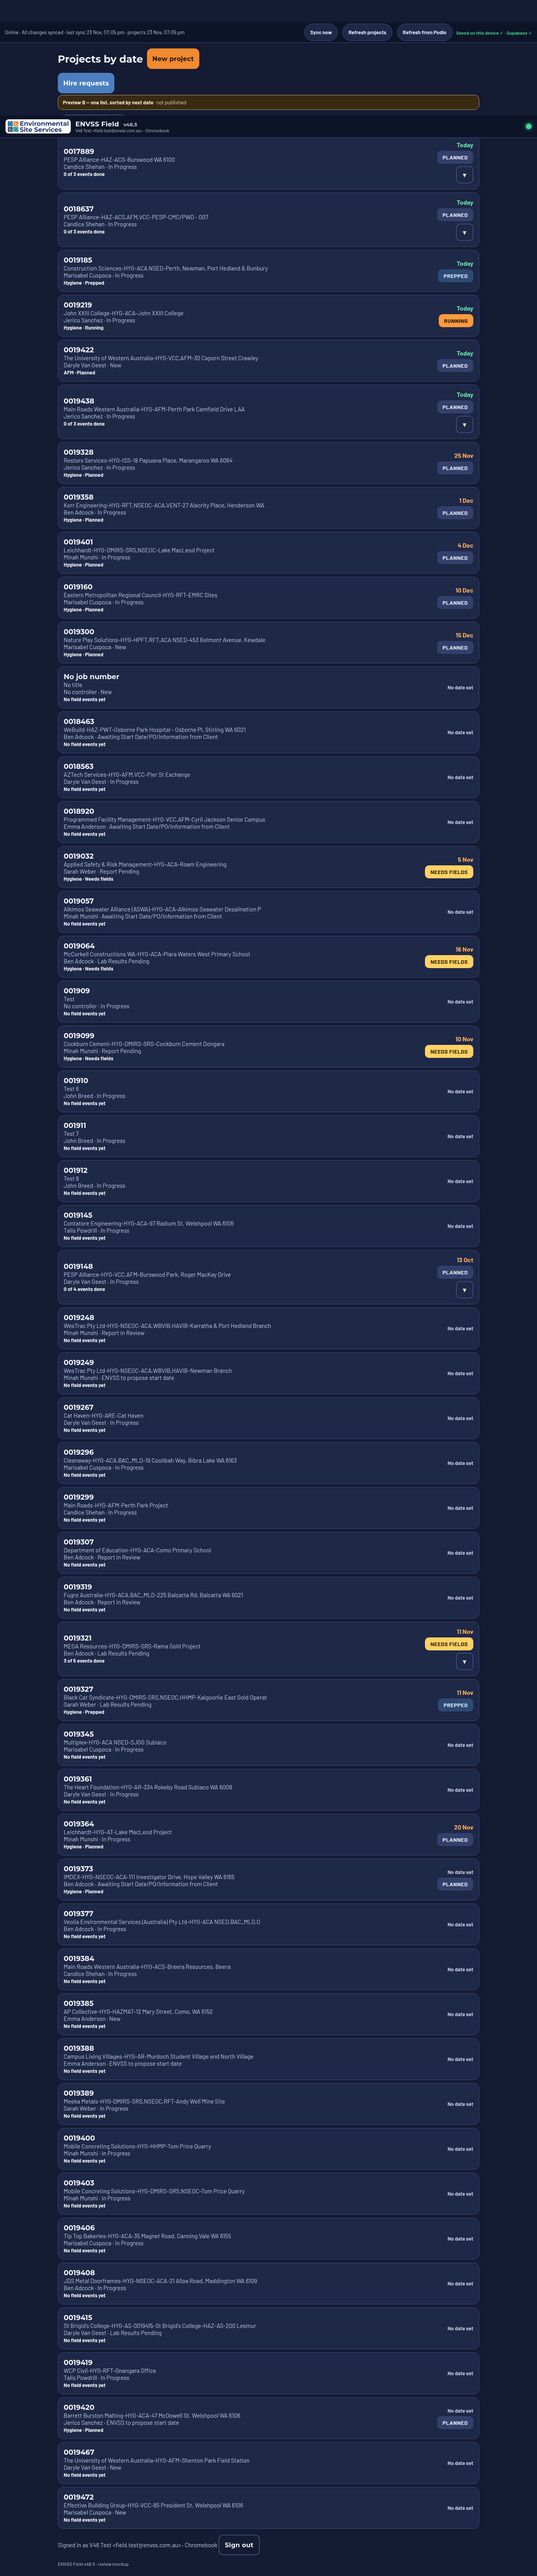
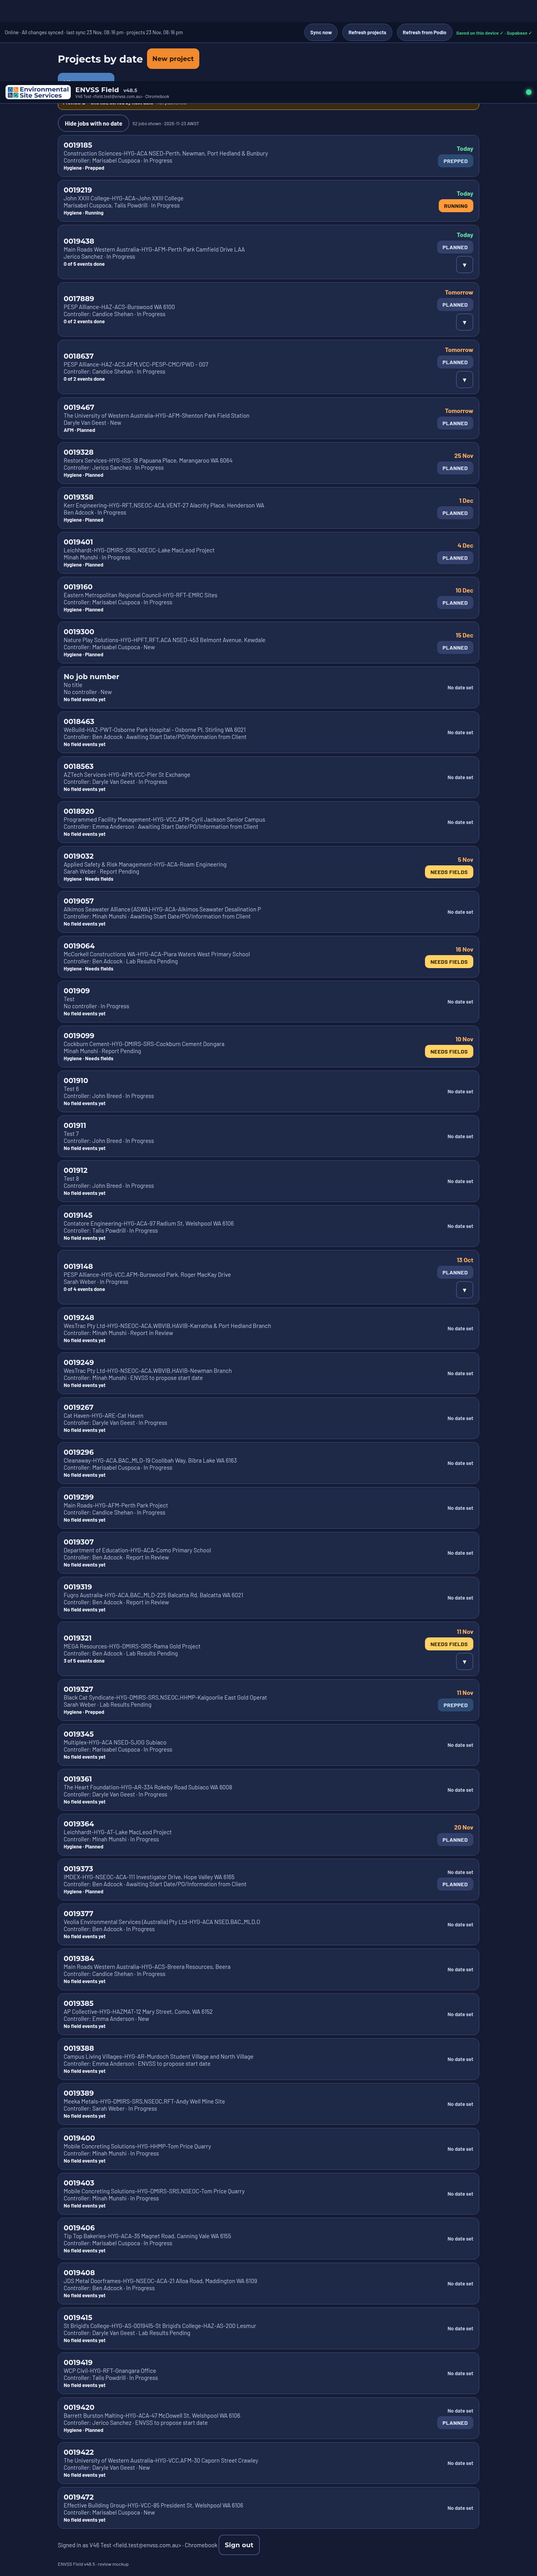
Draft: Layout A project list with Site Works Attended by on each card.
Grouped by date, one card per job, no-date and test jobs collapsed. The next event's attendee comes from Podio report-submitted-by; if it is empty the project controller is shown and labelled. Not published. AFM view SQL is drafted only, not applied.

Changed region(s): [[0.0, 0.0312, 0.8917, 0.1871]]

diff --git a/work/projlist/review.js b/work/projlist/review.js
@@ -27,6 +27,7 @@
     ".plr-title{overflow-wrap:anywhere}",
     ".plr-status{font-size:12px;opacity:.8;text-align:right;max-width:140px}",
     ".plr-empty{opacity:.75;font-size:13px;margin:0 0 8px}",
+    ".plr-fallback{font-style:italic;opacity:.9}",
     ".plr-chev{min-width:44px;min-height:44px;border-radius:10px;align-self:flex-end}"
   ].join("");
   document.head.appendChild(st);
@@ -116,6 +117,12 @@
     return p.shortName || String(p.name || "").replace(/^\d{7}[-_ ]*/, "") || p.number;
   }
   function typeLab(t) { return t === "fibre" ? "AFM" : "Hygiene"; }
+  function nameOf(ev, p) {
+    const att = ev && String(ev.attendee || "").trim();
+    if (att) return { text: att, fallback: false };
+    if (p && String(p.controller || "").trim()) return { text: "Controller: " + p.controller.trim(), fallback: true };
+    return { text: "No controller", fallback: true };
+  }
 
   function cardHtml(p, evs, today, expanded) {
     const cur = pickCurrent(evs, today);
@@ -127,12 +134,15 @@
     if (n > 1) sum = done + " of " + n + " events done";
     else if (n === 1 && cur) sum = typeLab(cur.type) + " · " + (cur.stage || "Planned");
     else sum = "No field events yet";
-    const sub = [p.controller || "No controller", p.status || ""].filter(Boolean).join(" · ");
-    const evBlock = (expanded && n) ? '<div class="plr-ev">' + evs.map(e =>
-      '<div class="plr-evrow"><div><div class="brand-type" style="font-weight:700;font-size:14px">' + esc(e.code) + "</div>"
-      + '<div class="muted">' + esc(typeLab(e.type) + " · " + niceDate(e.date, today)) + "</div></div>"
-      + badgeFor(e.stage) + "</div>"
-    ).join("") + "</div>" : "";
+    const who = nameOf(cur, p);
+    const sub = [who.text, p.status || ""].filter(Boolean).join(" · ");
+    const evBlock = (expanded && n) ? '<div class="plr-ev">' + evs.map(e => {
+      const w = nameOf(e, p);
+      return '<div class="plr-evrow"><div><div class="brand-type" style="font-weight:700;font-size:14px">' + esc(e.code) + "</div>"
+        + '<div class="muted">' + esc(typeLab(e.type) + " · " + niceDate(e.date, today)) + "</div>"
+        + '<div class="muted' + (w.fallback ? " plr-fallback" : "") + '">' + esc(w.text) + "</div></div>"
+        + badgeFor(e.stage) + "</div>";
+    }).join("") + "</div>" : "";
     const chev = n > 1 ? '<button type="button" class="btn ghost plr-chev" data-plr-expand="' + esc(p.id) + '" aria-label="Show events">' + (expanded ? "▴" : "▾") + "</button>" : "";
     return '<div class="card open-project plr-card" data-project="' + esc(p.id) + '" style="display:block;width:100%;text-align:left">'
       + '<div class="row"><div class="grow">'
@@ -151,7 +161,7 @@
 
   function listForMode() {
     const fx = window.ENVSS_PROJLIST_FIXTURE || {};
-    const mode = Number(window.ENVSS_PROJLIST_REVIEW || 0);
+    const mode = Number(window.ENVSS_PROJLIST_REVIEW == null ? 1 : window.ENVSS_PROJLIST_REVIEW);
     const today = todayYmd();
     const projects = (fx.mockupProjects || []).slice();
     const hideNone = !!view.plrHideNone;
@@ -211,7 +221,8 @@
 
   const _dash = dashHtml;
   dashHtml = function () {
-    if (!Number(window.ENVSS_PROJLIST_REVIEW || 0)) return _dash.apply(this, arguments);
+    const mode = Number(window.ENVSS_PROJLIST_REVIEW == null ? 1 : window.ENVSS_PROJLIST_REVIEW);
+    if (!mode) return _dash.apply(this, arguments);
     try { return reviewHtml(); } catch (e) { console.warn("projlist review", e); return _dash.apply(this, arguments); }
   };
 
@@ -239,5 +250,9 @@
         render();
       };
     });
+  };
+
+  window.envssProjlist = {
+    todayYmd, nameOf, groupOf, nextDate, pickCurrent, evsOf, listForMode, GROUPS
   };
 })();

diff --git a/field.html b/field.html
@@ -9257,7 +9257,12 @@ window.HIRE_CATALOG = HIRE_CATALOG;
       const jobNumber = jobNumberFrom(reference, projectTitle, f["job-number"]);
       const turnaroundLabel = textOf(f.selection);
       const lab = relOf(f["which-laboratory-is-processing-samples"]);
-      const attended = relOf(f["report-submitted-by"]);
+      function peopleOf(v) {
+        const arr = Array.isArray(v) ? v : (v == null ? [] : [v]);
+        return arr.map(function (x) { return relOf(x).title; }).filter(Boolean);
+      }
+      const attendedNames = peopleOf(f["report-submitted-by"]);
+      const attended = { title: attendedNames.join(", "), itemId: relOf(f["report-submitted-by"]).itemId };
       const taskRaw = f["task-description"];
       const equipRaw = f["equipment-details"];
       const payload = {
@@ -10183,6 +10188,7 @@ window.HIRE_CATALOG = HIRE_CATALOG;
         task: text(f["task-description"]), tatLabel: text(f.selection), tat: tat(text(f.selection)),
         protocol: proto(text(f["monitoring-type"])), rotameter: rel(f.rotameter).title,
         collectedBy: list(f["samples-collected-by"]).join(", "),
+        attendedBy: list(f["report-submitted-by"]).join(", "),
         siteContact: text(f["site-contact-namephone"]),
         siteAddress: loc && typeof loc === "object" ? clean(loc.address || "") : text(loc),
         poc, totalSamples: num(f.calculation),

diff --git a/work/projlist/README.md b/work/projlist/README.md
@@ -1,27 +1,35 @@
-# Project list review (23 Nov 2026 AWST)
+# Project list Layout A (23 Nov 2026 AWST)
 
-Review and mockups only. Not published. Branch: `feat/project-list-review` at `/workspace/envss-projlist` (from main `ef2874a` / v48.5).
+Draft only. Not published. Branch: `feat/project-list-review` at `/workspace/envss-projlist` (from main `ef2874a` / v48.5).
+
+Layout A: grouped by when work is happening, one card per job number, no-date and test jobs collapsed.
+Name on the card is Podio **Site Works Attended by** (`report-submitted-by`) for the next/current event; if that is empty, **Controller: {name}**. Expanded multi-event cards show each event's attendee.
+
+## Tests
+
+`ROOT=/workspace/envss-projlist node work/projlist/test.mjs`
+
+32 passed (Pixel 7 + Chromebook). Supabase is mocked in memory; production is not written to.
 
 ## Screenshots
 
-All under `work/projlist/shots/`. Pixel 7 (412×915) and Chromebook (1366×768).
+All under `work/projlist/shots/`.
 
-Current list (live v48.5 UI, stubbed with today's 55 active jobs):
-- `current-pixel7.png` / `current-chromebook.png` — first screen
-- `current-pixel7-full.png` / `current-chromebook-full.png` — full list
-- `current-pixel7-mid.png` / `current-chromebook-mid.png` — mid-list crop
+Current v48.5 list (for comparison): `current-pixel7.png`, `current-chromebook.png`, plus `-full` and `-mid`.
 
-Preview A — grouped by when work is happening:
-- `a-pixel7.png` / `a-chromebook.png`
+Layout A:
+- `a-pixel7.png` / `a-chromebook.png` — On site today
 - `a-pixel7-full.png` / `a-chromebook-full.png`
-- `a-pixel7-expanded-9321.png` — 0019321, 3 of 5 events done, list expanded
-- `a-pixel7-expanded-8637.png` / `a-chromebook-expanded-8637.png` — 0018637 multi-day AFM
-- `a-pixel7-groups-lower.png` — Later + Awaiting lab / report
-- `a-pixel7-nodate.png` — collapsed No date set / Test groups
+- `a-pixel7-9219.png` / `a-chromebook-9219.png` — 0019219 with both attendees, expanded
+- `a-pixel7-expanded-8637.png` / `a-chromebook-expanded-8637.png` — 0018637, attendee vs labelled controller
+- `a-pixel7-expanded-9321.png` / `a-chromebook-expanded-9321.png` — 0019321, 3 of 5 events done
+- `a-pixel7-groups-lower.png` — Next 7 days / later
+- `a-pixel7-nodate.png` — collapsed no-date / test groups
 
-Preview B — one list, sorted by next date:
-- `b-pixel7.png` / `b-chromebook.png`
-- `b-pixel7-full.png` / `b-chromebook-full.png`
-- `b-pixel7-expanded-9321.png` / `b-chromebook-expanded-9321.png`
+Preview B shots are leftover from the earlier review and are not the proposed layout.
 
-Re-take shots: `ROOT=/workspace/envss-projlist node work/projlist/shot.mjs` (Supabase mocked, no production writes).
+Re-take: `ROOT=/workspace/envss-projlist node work/projlist/shot.mjs` (Supabase mocked).
+
+## AFM view note
+
+`afm_view_add_attended_by.sql` is a draft note only. Not applied. `v_field_afm_events` does not yet include `report-submitted-by`. The HYG view already does.
